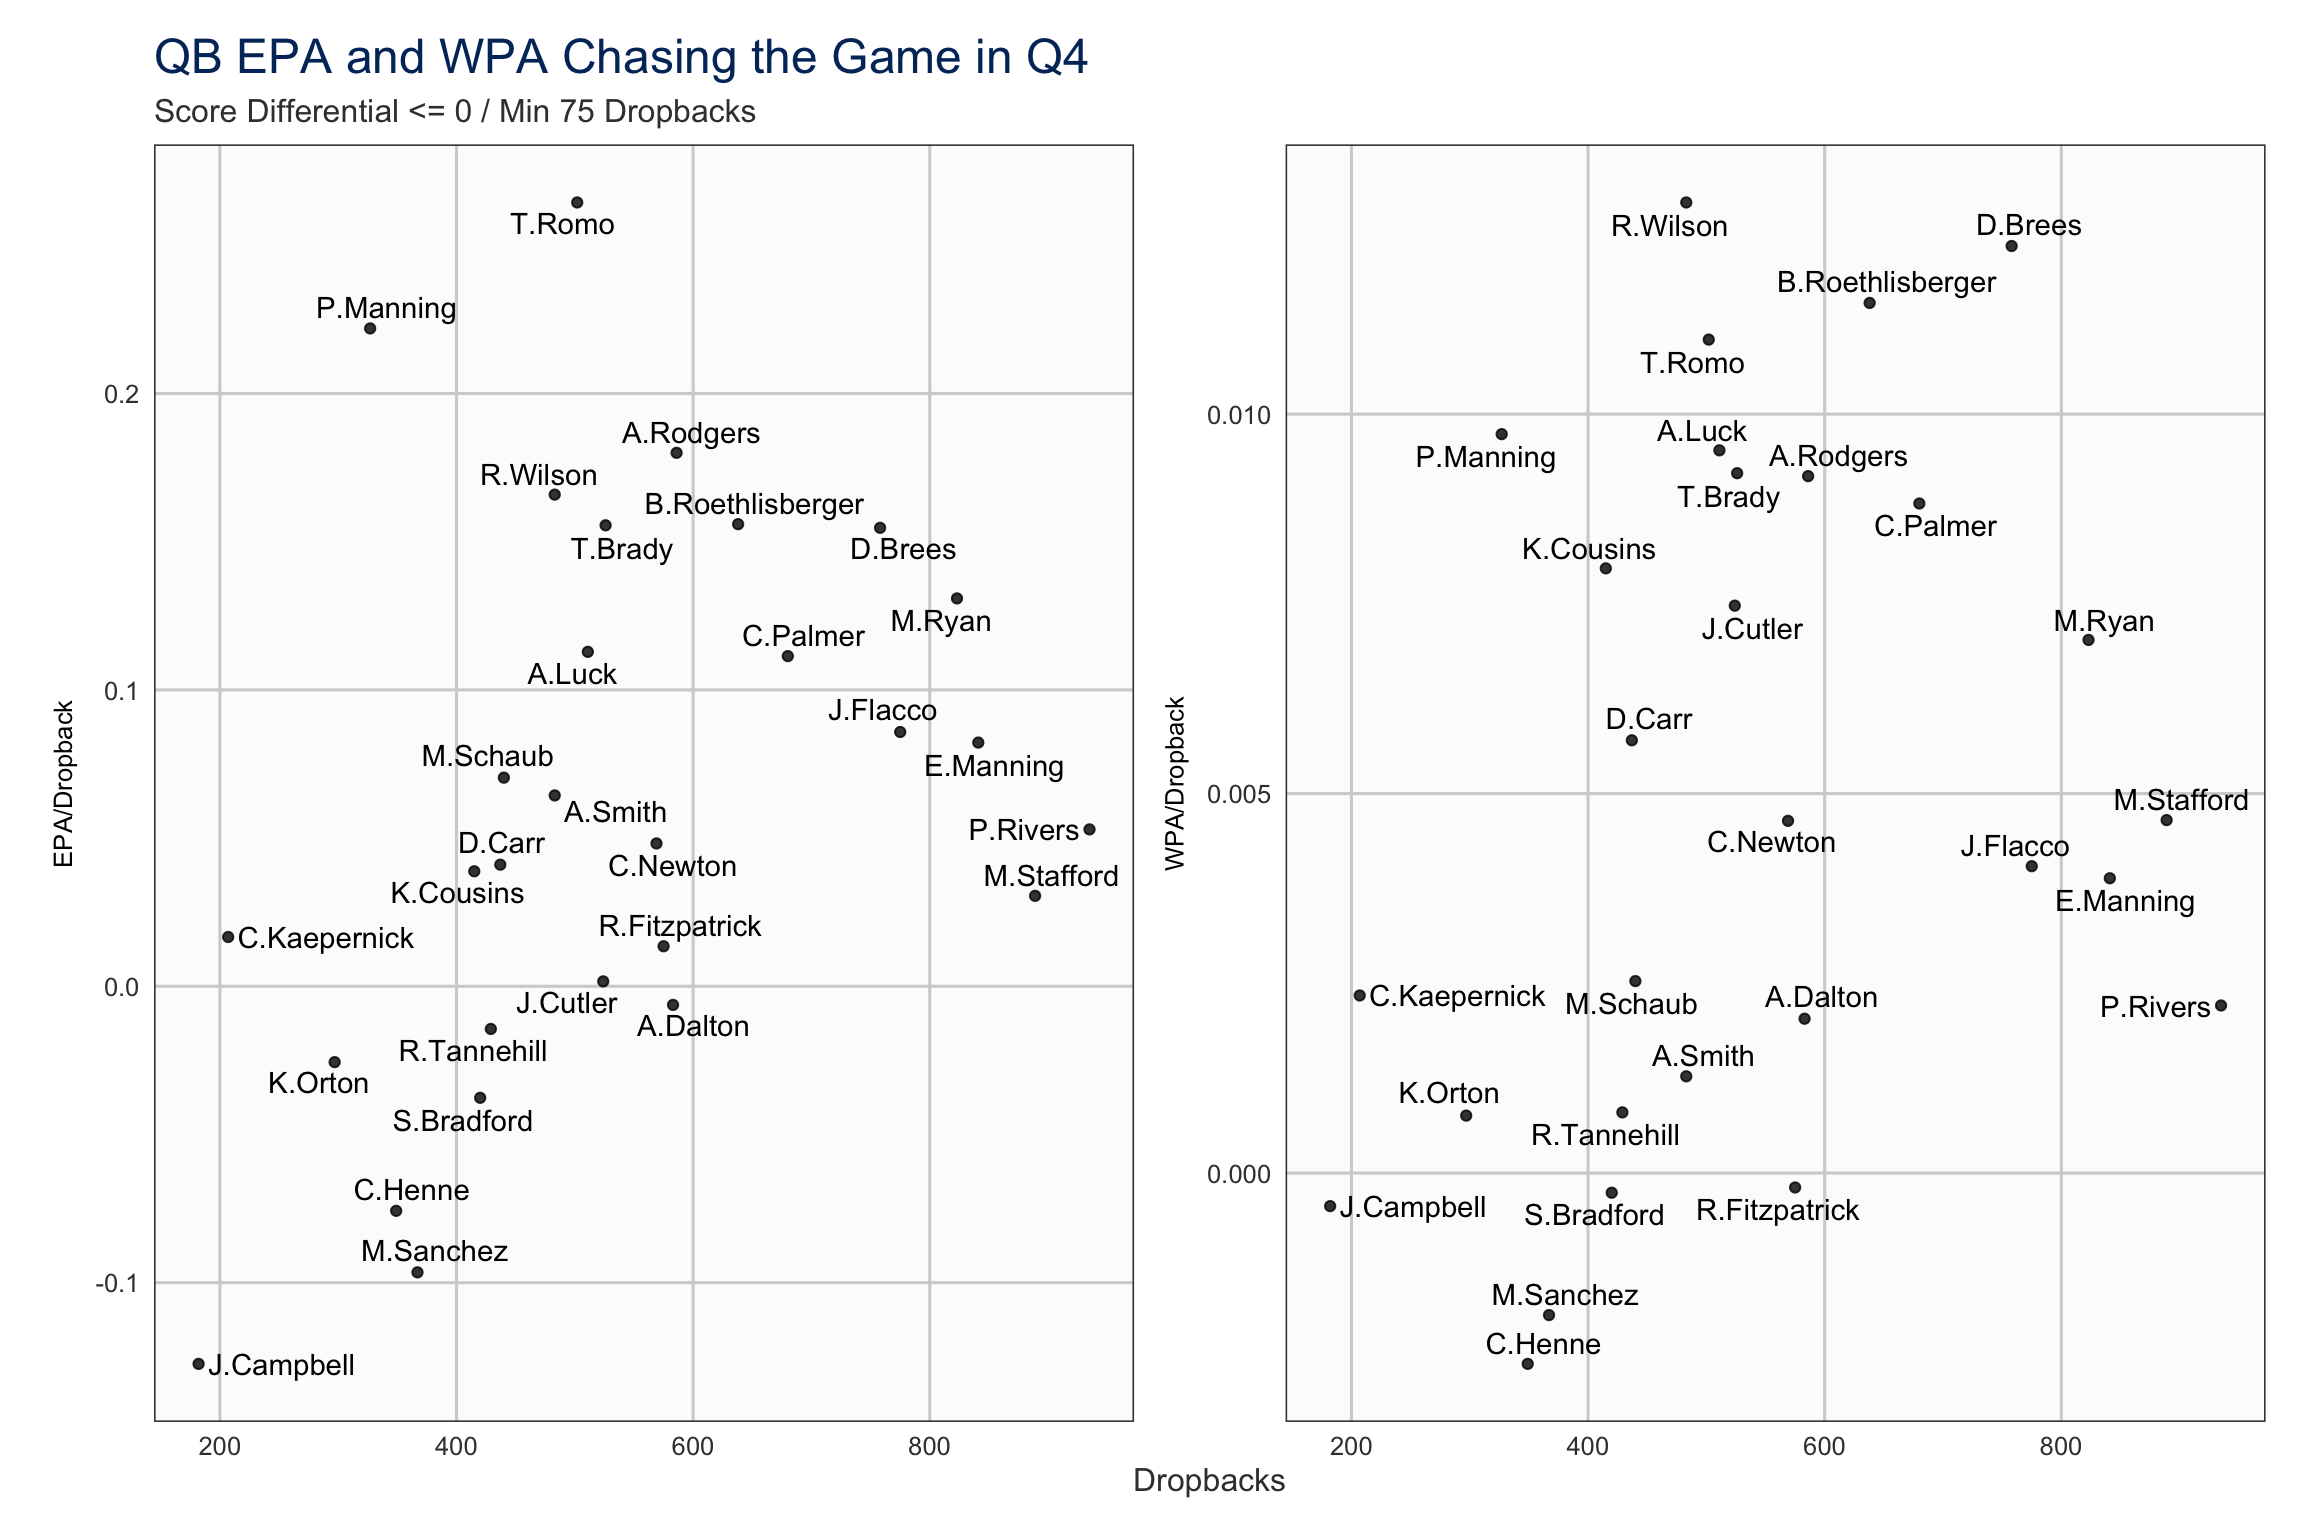
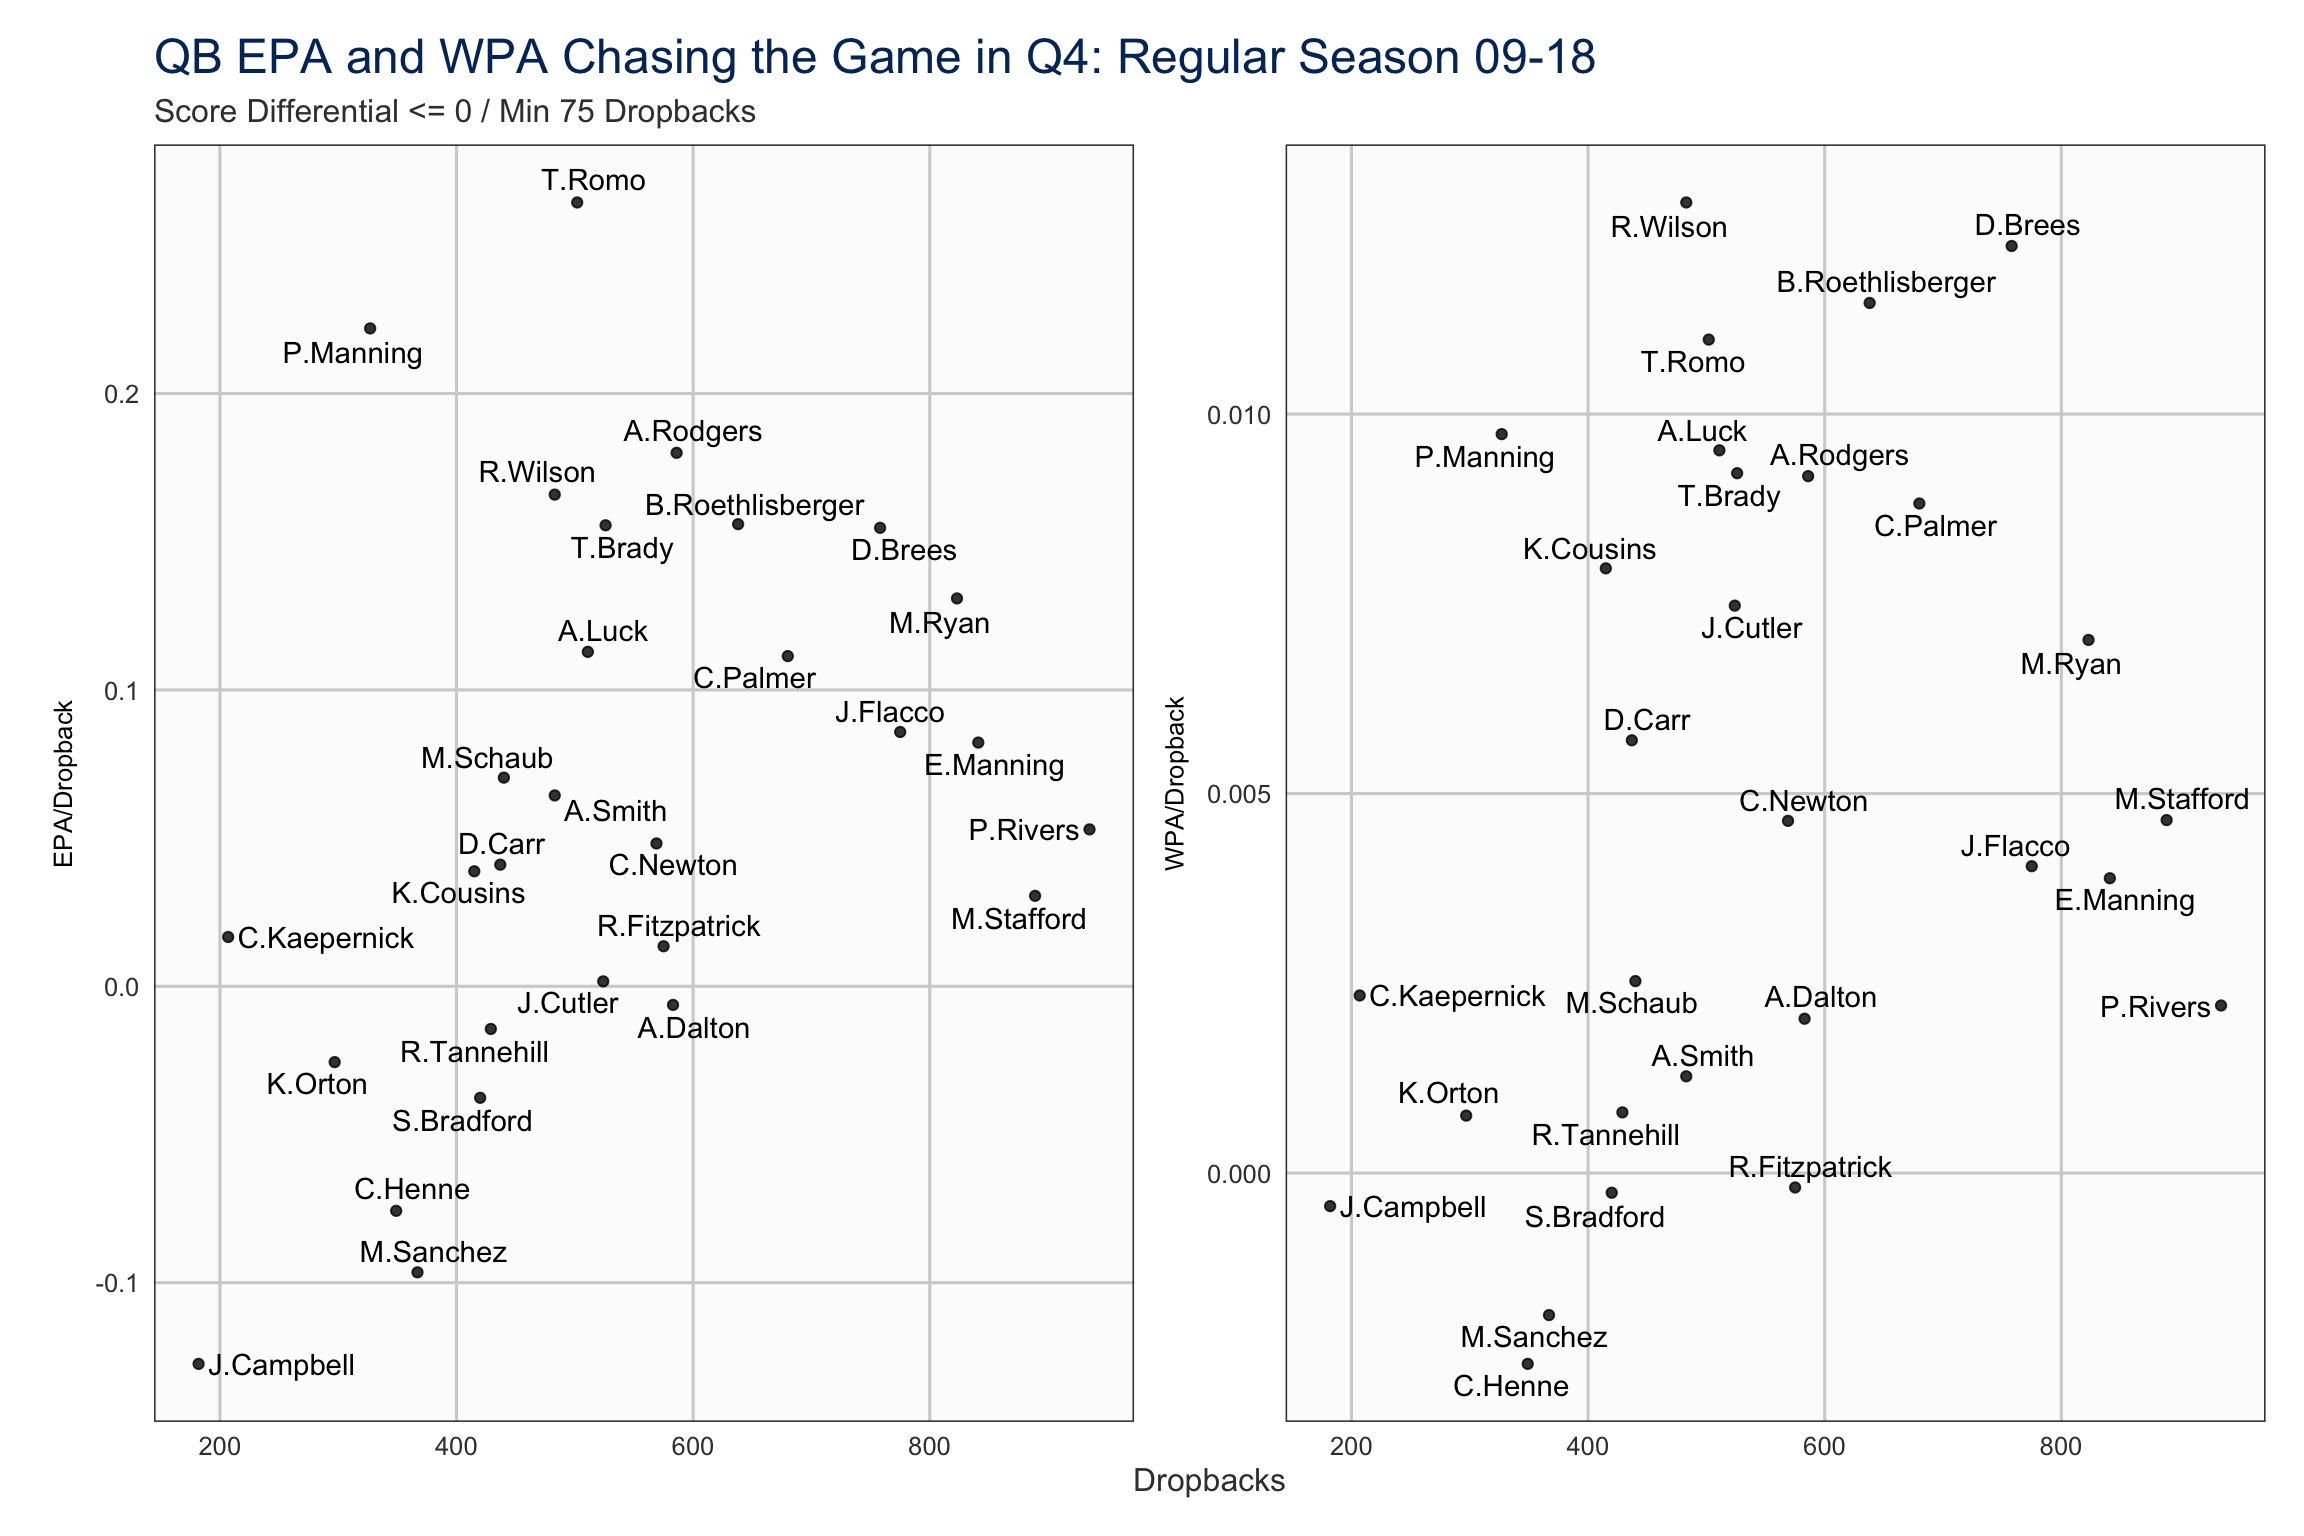
updated clutch qbs

diff --git a/docs/clutch_qbs.html b/docs/clutch_qbs.html
@@ -305,6 +305,7 @@ $(document).ready(function () {
 </div>
 
 
+<p>Last updated: 2019-08-24 10:21:27</p>
 <div id="all-data-from-nflscrapr" class="section level5">
 <h5>All data from <a href="https://github.com/maksimhorowitz/nflscrapR">nflscrapR</a></h5>
 <p><br> <br></p>
@@ -367,7 +368,7 @@ melted_qb_summ &lt;- melt(
              labeller=as_labeller(c(&#39;mean_epa&#39; = &#39;EPA/Dropback&#39;, &#39;mean_wpa&#39; = &#39;WPA/Dropback&#39;)),
              strip.position = &#39;left&#39;) +
   labs(
-    title = &#39;QB EPA and WPA Chasing the Game in Q4&#39;,
+    title = &#39;QB EPA and WPA Chasing the Game in Q4: Regular Season 09-18&#39;,
     subtitle = &#39;Score Differential &lt;= 0 / Min 75 Dropbacks&#39;,
     x = &#39;Dropbacks&#39;, y = NULL
   ) +
@@ -383,7 +384,7 @@ ahead_q4 &lt;- ggplot(melted_qb_summ[ahead == T], aes(x=plays, y=val)) +
              labeller = as_labeller(c(&#39;mean_epa&#39; = &#39;EPA/Dropback&#39;, &#39;mean_wpa&#39; = &#39;WPA/Dropback&#39;)),
              strip.position = &#39;left&#39;) +
   labs(
-    title = &#39;QB EPA and WPA Closing Out the Game in Q4&#39;,
+    title = &#39;QB EPA and WPA Closing Out the Game in Q4: Regular Season 09-18&#39;,
     subtitle = &#39;Score Differential &gt; 0 / Min 75 Dropbacks&#39;,
     x = &#39;Dropbacks&#39;, y = NULL
   ) +
@@ -391,7 +392,7 @@ ahead_q4 &lt;- ggplot(melted_qb_summ[ahead == T], aes(x=plays, y=val)) +
   theme(strip.background = element_blank(), 
         strip.text = element_text(colour=&#39;black&#39;),
         strip.placement = &#39;outside&#39;)</code></pre>
-<p>Whilst EPA is a reasonable measure of play success it would be a fair argument that when trying to win a game at the death simply adding more points does not tell the whole story; is a pass to set up a go-ahead field goal as time expires less valuable than a pass for a touchdown when trailing by 2 points late? To countenance this we can look at both EPA (expected points added) and WPA (win probability added).</p>
+<p>Whilst EPA is a reasonable measure of play success it would be a fair argument that when trying to win a game at the death simply adding more points does not tell the whole story; is a pass to set up a go-ahead field goal as time expires less valuable than a pass for a touchdown when trailing by 2 points late? To countenance this we can look at both EPA (expected points added) and WPA (win probability added). It is also worth noting that this data cannot account directly for game script or playcalling. It might be a fair suggestion that some coordinators and coaches get too conservative when faced with a narrow lead in the 4th, causing a drop in EPA or WPA that is not entirely down to the QB play.</p>
 <p>First up let’s look at how the QBs perform when chasing the game.</p>
 <p><img src="clutch_qbs_files/figure-html/chasing-plot-1.png" width="1152" /></p>
 <p>Looking at the QBs towards the top of both graphs we see names associated with good QB play: Brees, P.Manning, Brady, Wilson, Roethlisberger, Rodgers.</p>
@@ -664,7 +665,7 @@ He might have a meme-level clutch rep but for Matt Stafford the data does not lo
   geom_boxplot(outlier.alpha = 0.6) + 
   geom_hline(aes(yintercept = mean(wpa, na.rm = T)), linetype = 2, colour = &#39;red&#39;) +
   labs(
-    title = &quot;WPA of Passes When Chasing the Game in Q4&quot;,
+    title = &quot;WPA of Passes When Chasing the Game in Q4: Regular Season 09-18&quot;,
     subtitle = &quot;Min 75 Att / Red line is mean WPA of all featured QBs / QBs ordered by mean WPA low to high&quot;, 
     y = &#39;WPA&#39;, x = NULL
   ) +
@@ -680,7 +681,7 @@ bplot_ahead &lt;- ggplot(
   geom_boxplot(outlier.alpha = 0.6) + 
   geom_hline(aes(yintercept = mean(wpa, na.rm = T)), linetype = 2, colour = &#39;red&#39;) +
   labs(
-    title = &quot;WPA of Passes When Closing Out the Game in Q4&quot;,
+    title = &quot;WPA of Passes When Closing Out the Game in Q4: Regular Season 09-18&quot;,
     subtitle = &quot;Min 75 Att / Red line is mean WPA of all featured QBs / QBs ordered by mean WPA low to high&quot;, 
     y = &#39;WPA&#39;, x = NULL
   ) +
@@ -738,7 +739,7 @@ Using the nflscrapR data from 2009 - 2018 in the post season we find that there 
              labeller=as_labeller(c(&#39;mean_epa&#39; = &#39;EPA/Dropback&#39;, &#39;mean_wpa&#39; = &#39;WPA/Dropback&#39;)),
              strip.position = &#39;left&#39;) +
   labs(
-    title = &#39;QB EPA and WPA Chasing the Game in Q4&#39;,
+    title = &#39;QB EPA and WPA Chasing the Game in Q4: Post Season 09-18&#39;,
     subtitle = &#39;Score Differential &lt;= 0 / Min 10 Dropbacks&#39;,
     x = &#39;Dropbacks&#39;, y = NULL
   ) +
@@ -754,7 +755,7 @@ post_ahead_q4 &lt;- ggplot(melted_qb_post_summ[ahead == T], aes(x=plays, y=val))
              labeller = as_labeller(c(&#39;mean_epa&#39; = &#39;EPA/Dropback&#39;, &#39;mean_wpa&#39; = &#39;WPA/Dropback&#39;)),
              strip.position = &#39;left&#39;) +
   labs(
-    title = &#39;QB EPA and WPA Closing Out the Game in Q4&#39;,
+    title = &#39;QB EPA and WPA Closing Out the Game in Q4: Post Season 09-18&#39;,
     subtitle = &#39;Score Differential &gt; 0 / Min 10 Dropbacks&#39;,
     x = &#39;Dropbacks&#39;, y = NULL
   ) +
